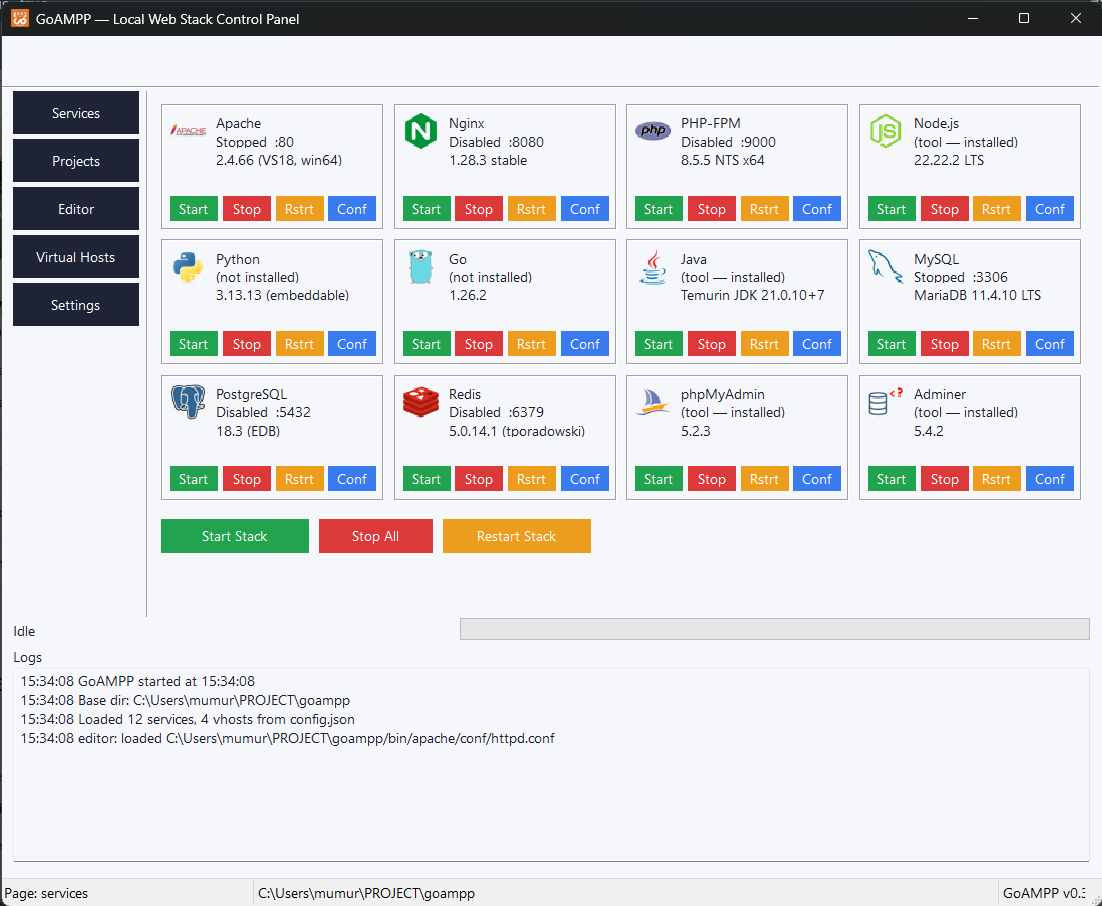
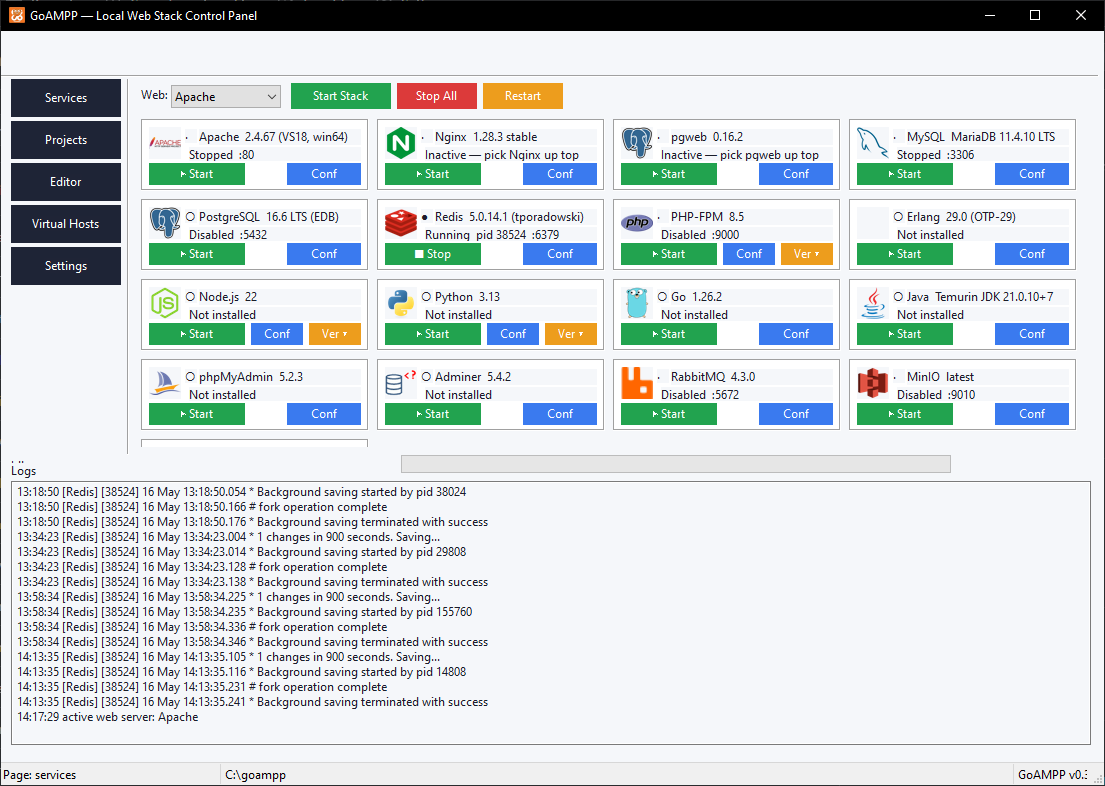
docs: update screenshot and README for v0.5.5 (RabbitMQ, MinIO, Mailpit, pgweb)

diff --git a/README.md b/README.md
@@ -1,6 +1,6 @@
 # GoAMPP
 
-A native Windows web-stack control panel written in Go. **One 7 MB binary** that downloads Apache, MariaDB, PHP, Node.js, Python, Go, Java, and friends on demand — no installer bloat, no Docker, no WSL, no Electron.
+A native Windows web-stack control panel written in Go. **One 7 MB binary** that downloads Apache, MariaDB, PHP, PostgreSQL, Redis, RabbitMQ, MinIO, Mailpit, Node.js, Python, Go, Java, and friends on demand — no installer bloat, no Docker, no WSL, no Electron.
 
 [![release](https://img.shields.io/github/v/release/imtaqin/goampp)](https://github.com/imtaqin/goampp/releases/latest)
 [![license](https://img.shields.io/github/license/imtaqin/goampp)](LICENSE)
@@ -9,7 +9,7 @@ A native Windows web-stack control panel written in Go. **One 7 MB binary** that
 
 ## Features
 
-- **8 services** in the catalog — Apache, Nginx, MariaDB (as MySQL), PostgreSQL, Redis, PHP-FPM, phpMyAdmin, Adminer
+- **11 services** in the catalog — Apache, Nginx, MariaDB (as MySQL), PostgreSQL, Redis, PHP-FPM, phpMyAdmin, Adminer, pgweb, MinIO, Mailpit, RabbitMQ
 - **4 language runtimes** — Node.js LTS, Python (embeddable + auto-bootstrapped pip), Go, Eclipse Temurin JDK 21
 - **17 framework scaffolders** — Laravel, Laravel + Livewire, Symfony, CodeIgniter 4, WordPress, Next.js, Vite + React, Express, NestJS, AdonisJS, Flask, Django, FastAPI, Go net/http, Gin, Spring Boot, Static HTML
 - **Auto-vhost creation** — writes to Windows hosts file + Apache `vhosts.conf` + Nginx `sites/`
@@ -24,7 +24,7 @@ A native Windows web-stack control panel written in Go. **One 7 MB binary** that
 ## Screenshots
 
 ### Services dashboard
-12 service cards in a 4×3 grid, each with its own logo and Start/Stop/Restart/Conf buttons.
+16 service cards in a 4×4 grid, each with its own logo and Start/Stop/Restart/Conf buttons.
 
 ![Services dashboard](assets/image/services.png)
 
